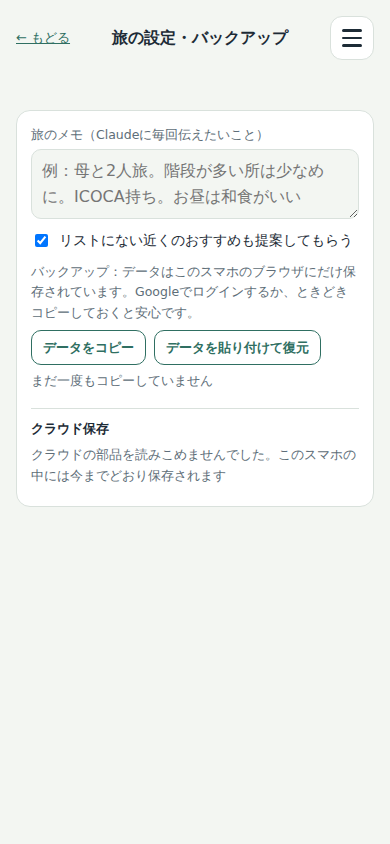
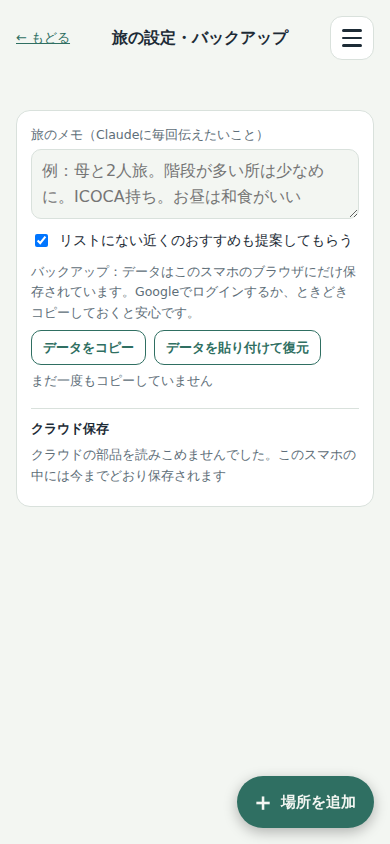
右下に常時表示の「場所を追加」ボタンを追加
Claude-Session: https://claude.ai/code/session_01J2CHz3Jh6CPjcLbwtfFY4V

Changed region(s): [[0.5846, 0.8934, 0.9846, 1.0]]

diff --git a/index.html b/index.html
@@ -225,6 +225,8 @@ details.card[open] > summary{margin-bottom:10px}
 .prio button[aria-pressed="true"]{background:var(--star);border-color:var(--star);color:var(--paper)}
 
 /* 下の固定バー */
+.fab{position:fixed;z-index:35;right:max(16px,calc((100vw - 640px)/2 + 16px));bottom:calc(env(safe-area-inset-bottom,0px) + 16px + var(--fab-off,0px));height:52px;padding:0 18px 0 14px;border-radius:26px;border:0;background:var(--accent);color:var(--bg);display:flex;align-items:center;gap:6px;font:inherit;font-weight:700;font-size:15px;cursor:pointer;box-shadow:0 4px 14px rgba(0,0,0,.28)}
+.fab b{font-size:24px;line-height:1;font-weight:700}
 .dock{position:fixed;left:0;right:0;bottom:0;background:var(--paper);border-top:1px solid var(--line);padding:10px 16px calc(10px + env(safe-area-inset-bottom,0px));z-index:5}
 .dock .in{max-width:640px;margin:0 auto;display:flex;flex-direction:column;gap:8px}
 .quick{display:flex;gap:6px;overflow-x:auto;scrollbar-width:none;padding-bottom:2px}
@@ -590,6 +592,7 @@ pre.prompt{white-space:pre-wrap;overflow-wrap:anywhere;font-family:var(--body);f
   </section>
 </div>
 
+<button class="fab" id="fab-add" type="button" aria-label="場所を追加する"><b>＋</b><span>場所を追加</span></button>
 <div class="dock only-now vmain">
   <div class="in">
     <div class="quick" id="quick">
@@ -2589,27 +2592,31 @@ pre.prompt{white-space:pre-wrap;overflow-wrap:anywhere;font-family:var(--body);f
     if (!hasPos(t)) locate(id); // 住所から位置を調べる（裏で）
     return t;
   }
-  async function quickAdd(){
-    const raw = $("qa-url").value.trim(), msg = $("qa-msg"); if (!raw) { msg.textContent = "リンクか名前を入れてください"; return; }
-    $("qa-add").disabled = true; msg.textContent = "読みこみ中…";
+  // ui＝{ input, msg, addBtn, nameBox, name }：「1 集める」の欄と、右下の「＋ 場所を追加」の窓で、同じ処理を使う
+  const QA_MAIN = () => ({ input: $("qa-url"), msg: $("qa-msg"), addBtn: $("qa-add"), nameBox: $("qa-name-box"), name: $("qa-name"), main: true });
+  let qaUi = null; // いま名前を聞いている欄
+  async function quickAdd(ui){
+    ui = ui && ui.input ? ui : QA_MAIN(); qaUi = ui;
+    const raw = ui.input.value.trim(), msg = ui.msg; if (!raw) { msg.textContent = "リンクか名前を入れてください"; return; }
+    ui.addBtn.disabled = true; msg.textContent = "読みこみ中…";
     const u = (raw.match(/https?:\/\/\S+/) || [""])[0];
     let info = null, map = "";
     if (u) {
       info = await mapInfoFromUrl(raw); map = u;
       if (info) map = cleanMapUrl(u);
     } else info = { name: raw };
-    $("qa-add").disabled = false;
-    if (!info || !info.name) { qaPending = Object.assign({}, info || {}, { map }); $("qa-name-box").hidden = false; $("qa-name").focus(); msg.textContent = u ? (info ? "リンクは読めましたが、名前がありません。" : "このリンクは読めませんでした。名前を入れると、リンクつきで追加します。") : ""; return; }
+    ui.addBtn.disabled = false;
+    if (!info || !info.name) { qaPending = Object.assign({}, info || {}, { map }); ui.nameBox.hidden = false; ui.name.focus(); msg.textContent = u ? (info ? "リンクは読めましたが、名前がありません。" : "このリンクは読めませんでした。名前を入れると、リンクつきで追加します。") : ""; return; }
     // すでに同じ場所（同じリンク、または同じ名前と住所）があれば、ふやさない
     const dup = state.spots.find(x => (map && x.map && cleanMapUrl(x.map) === map) || (x.name === info.name && (x.address || "") === (info.address || "")));
-    $("qa-url").value = ""; $("qa-name-box").hidden = true; qaPending = null;
+    ui.input.value = ""; ui.nameBox.hidden = true; qaPending = null;
     if (dup) { msg.textContent = `「${dup.name}」は、もう入っています。`; toast(`「${dup.name}」は、もう入っています`); return; }
     const t = addSpotQuick(Object.assign({}, info, { map }));
-    msg.textContent = `「${t.name}」を追加しました。下の登録リストから、日ごとの枠へ入れられます。`;
+    msg.textContent = `「${t.name}」を追加しました。` + (ui.main ? "下の登録リストから、日ごとの枠へ入れられます。" : "続けて入れられます。");
     toast(`「${t.name}」を追加しました`);
-    $("qa-url").focus();
+    ui.input.focus();
   }
-  $("qa-add").onclick = quickAdd;
+  $("qa-add").onclick = () => quickAdd();
   // コピーしたリンクを、貼らずに追加（iPhone では「ペースト」の確認が1回出る）
   $("qa-clip").onclick = async () => {
     const msg = $("qa-msg");
@@ -2625,10 +2632,54 @@ pre.prompt{white-space:pre-wrap;overflow-wrap:anywhere;font-family:var(--body);f
   $("qa-url").addEventListener("keydown", e => { if (e.key === "Enter") { e.preventDefault(); quickAdd(); } });
   $("qa-url").addEventListener("paste", () => setTimeout(() => { if (/https?:\/\//.test($("qa-url").value)) quickAdd(); }, 0));
   $("qa-name-ok").onclick = () => {
-    const nm = $("qa-name").value.trim(); if (!nm) { $("qa-msg").textContent = "名前を入れてください"; return; }
-    const t = addSpotQuick(Object.assign({}, qaPending || {}, { name: nm }));
-    $("qa-name").value = ""; $("qa-url").value = ""; $("qa-name-box").hidden = true; qaPending = null; $("qa-msg").textContent = `「${t.name}」を追加しました。`;
+    nameOk(QA_MAIN());
   };
+  function nameOk(ui){
+    const nm = ui.name.value.trim(); if (!nm) { ui.msg.textContent = "名前を入れてください"; return; }
+    const t = addSpotQuick(Object.assign({}, qaPending || {}, { name: nm }));
+    ui.name.value = ""; ui.input.value = ""; ui.nameBox.hidden = true; qaPending = null; ui.msg.textContent = `「${t.name}」を追加しました。`;
+  }
+  // 右下の「＋ 場所を追加」：どの画面でも、窓で場所をすぐ登録できる（リンクか名前を貼る。続けて入れられる）
+  function fabForm(){
+    const w = el("div", "stack"); w.style.gap = "8px";
+    w.append(el("p", "note", "Googleマップのリンクか、場所の名前を貼ってください。名前や住所は自動で入ります。"));
+    const row = el("div", "row"); row.style.flexWrap = "nowrap";
+    const input = el("input"); input.placeholder = "リンクか名前を貼る"; input.setAttribute("aria-label", "Googleマップのリンクか場所の名前"); input.setAttribute("inputmode", "url"); input.style.cssText = "flex:1;min-width:0";
+    const add = el("button", "btn", "追加"); add.type = "button"; row.append(input, add);
+    const nameBox = el("div", "stack"); nameBox.hidden = true; nameBox.style.gap = "6px";
+    const name = el("input"); name.maxLength = 60; name.placeholder = "例：伏見稲荷大社";
+    const nl = el("label", null, "名前が読めませんでした。名前を入れてください"); nl.append(name);
+    const ok = el("button", "btn small", "この名前で追加"); ok.type = "button"; ok.style.alignSelf = "flex-start"; nameBox.append(nl, ok);
+    const clip = el("button", "btn ghost small", "コピーしたリンクを、貼らずに追加"); clip.type = "button"; clip.style.alignSelf = "flex-start";
+    const msg = el("span", "msg"); msg.style.color = "var(--accent)";
+    const more = el("button", "link", "くわしく入れる（営業時間・メモなど）"); more.type = "button"; more.style.alignSelf = "flex-start";
+    const ui = { input, msg, addBtn: add, nameBox, name };
+    add.onclick = () => quickAdd(ui);
+    input.addEventListener("keydown", e => { if (e.key === "Enter") { e.preventDefault(); quickAdd(ui); } });
+    input.addEventListener("paste", () => setTimeout(() => { if (/https?:\/\//.test(input.value)) quickAdd(ui); }, 0));
+    ok.onclick = () => nameOk(ui);
+    clip.onclick = async () => {
+      try {
+        const t = ((await navigator.clipboard.readText()) || "").trim();
+        if (!t) { msg.textContent = "コピーしたものがありません。Googleマップで「共有」→「コピー」を押してください。"; return; }
+        if (!/https?:\/\//.test(t) && t.length > 40) { msg.textContent = "Googleマップのリンクではないようです。"; return; }
+        input.value = t; quickAdd(ui);
+      } catch { msg.textContent = "コピーしたものを読めませんでした。入力欄に貼りつけてください。"; input.focus(); }
+    };
+    more.onclick = () => { closeSheet(); go("edit"); };
+    w.append(row, nameBox, clip, msg, more);
+    setTimeout(() => input.focus(), 50);
+    return w;
+  }
+  $("fab-add").onclick = () => openSheet("場所を追加", fabForm());
+  // 右下のボタンが、下に固定の部品（下のバー・登録リスト・一括操作バー）にかぶらないように、そのぶん上げる
+  function placeFab(){
+    const f = $("fab-add"); if (!f) return;
+    let off = 0;
+    ["#board-tray", "#bulk-bar", ".dock"].forEach(q => { const e = document.querySelector(q); if (!e || e.hidden) return; const cs = getComputedStyle(e); if (cs.display === "none") return; const r = e.getBoundingClientRect(); if (r.height && r.top < innerHeight && r.bottom > 0) off = Math.max(off, innerHeight - r.top); });
+    f.style.setProperty("--fab-off", off ? off + "px" : "0px");
+  }
+  addEventListener("scroll", placeFab, { passive: true }); addEventListener("resize", placeFab); setInterval(placeFab, 400);
   $("bulk-toggle").onclick = () => { bulkMode = !bulkMode; if (!bulkMode) bulkSel.clear(); renderSpotList(); };
   $("area-sort").onclick = () => { state.settings["spot-sort"] = state.settings["spot-sort"] === "area" ? "" : "area"; save(); renderSpotList(); };
   $("bulk-all").onclick = () => { sorted().filter(s => $("show-done").checked || !s.done).forEach(s => bulkSel.add(s.id)); renderSpotList(); };

diff --git a/CLAUDE.md b/CLAUDE.md
@@ -91,6 +91,7 @@
   - 「コピーしたリンクを、貼らずに追加」（`#qa-clip`）：クリップボードを読んで（`navigator.clipboard.readText`。iPhone では「ペースト」の確認が1回出る）、そのまま `quickAdd`。リンクがなく40文字を超える文章は追加しない
   - `?add=（リンクや名前。URLエンコード）` で開くと、そのまま登録する（`quickAdd`。使ったあと `stripParams("add")` でアドレスから消す）。iPhone の「ショートカット」アプリで、共有シートから `https://…/?add=（エンコードしたテキスト）` を「URLを開く」にする使い方を、画面の「共有メニューから、もっと手間なく追加する方法」に書いた（実機の iPhone では未確認。Safari で開くので、ホーム画面アプリとはデータが別。ログインすれば同じリスト）
   - すでに同じ場所（同じGoogleマップのリンク、または同じ名前と住所）があるときは、ふやさず「もう入っています」と知らせる
+  - 右下の「＋ 場所を追加」ボタン（`#fab-add`。どの画面でも画面に固定。`position:fixed`、広い画面でも列の右はしにそろえる）：押すと窓（`openSheet`）に、リンクか名前を貼る欄（`fabForm`。処理は「集める」の欄と同じ `quickAdd(ui)`。続けて入れられる。名前が読めないときの欄・「コピーしたリンクを、貼らずに追加」・「くわしく入れる」で `edit` 画面へ）が開く。下に固定の部品（`.dock`・`#board-tray`・`#bulk-bar`）にかぶらないよう、`placeFab` がそのぶん上げる（`--fab-off`）
 - Googleマップのリンク読みこみ：「場所を追加」の URL 欄に貼ると、名前・住所・エリアを自動で入れる（空の欄だけ）
   - 長いURL（`google.com/maps?q=〒… 住所 名前` や `/maps/place/名前/`）はページの中だけで読み取る
   - 短縮リンク（`maps.app.goo.gl`）は Supabase Edge Function（ダッシュボード上の名前は `hyper-function`、コードは `supabase/functions/resolve-map/index.ts`）で長いURLに戻す。呼び先は `index.html` の `RESOLVER`（プロジェクト `cnnwxwiqauyawngkpapk`。空なら短縮リンクは読まない）
